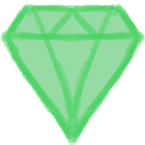
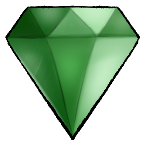
Spawn Bug Fixed, 1 Final Gem Asset Added

diff --git a/Assets/Scripts/GemSpawnerManager.cs b/Assets/Scripts/GemSpawnerManager.cs
@@ -172,10 +172,8 @@ public class GemSpawnerManager : MonoBehaviour
 
     private void CheckForDestroyDuplicates()
     {
-        //Remove duplicates
-        gemDestroyQueue = gemDestroyQueue.Distinct().ToList();
-        //Sort array
-        gemDestroyQueue = gemDestroyQueue.OrderBy(x => x.x).ThenBy(x => x.y).ToList();
+        //Remove duplicates and sort array
+        gemDestroyQueue = gemDestroyQueue.Distinct().OrderBy(x => x.x).ThenBy(x => x.y).ToList();
     }
 
     private void DestroyMatches()
@@ -185,7 +183,10 @@ public class GemSpawnerManager : MonoBehaviour
         {
             for (int i = 0; i < gemDestroyQueue.Count; i++)
             {
+                //Get the score of the gem and destory the spawn
                 PlayerController.main.UpdateScore(GameMatrix.main.GetGemObject(gemDestroyQueue[i]).GetScoreValue());
+                //Add gem to column spawn queue
+                gemSpawnQueue[(int)gemDestroyQueue[i].y] += 1;
                 Destroy(GameMatrix.main.GetGemObject(gemDestroyQueue[i]).gameObject);
                 GameMatrix.main.SetGemObject(gemDestroyQueue[i], null);
             }
@@ -220,7 +221,7 @@ public class GemSpawnerManager : MonoBehaviour
         for (int i = duplicateCounter; i >= 0; i--)
         {
             gemDestroyQueue.Add(new Vector2(row, col - i - 1));
-            gemSpawnQueue[col - i - 1] += 1;
+            //gemSpawnQueue[col - i - 1] += 1;
         }
     }
 
@@ -229,7 +230,7 @@ public class GemSpawnerManager : MonoBehaviour
         for (int i = duplicateCounter; i >= 0; i--)
         {
             gemDestroyQueue.Add(new Vector2(row - i - 1, col));
-            gemSpawnQueue[col] += 1;
+            //gemSpawnQueue[col] += 1;
         }
     }
 
